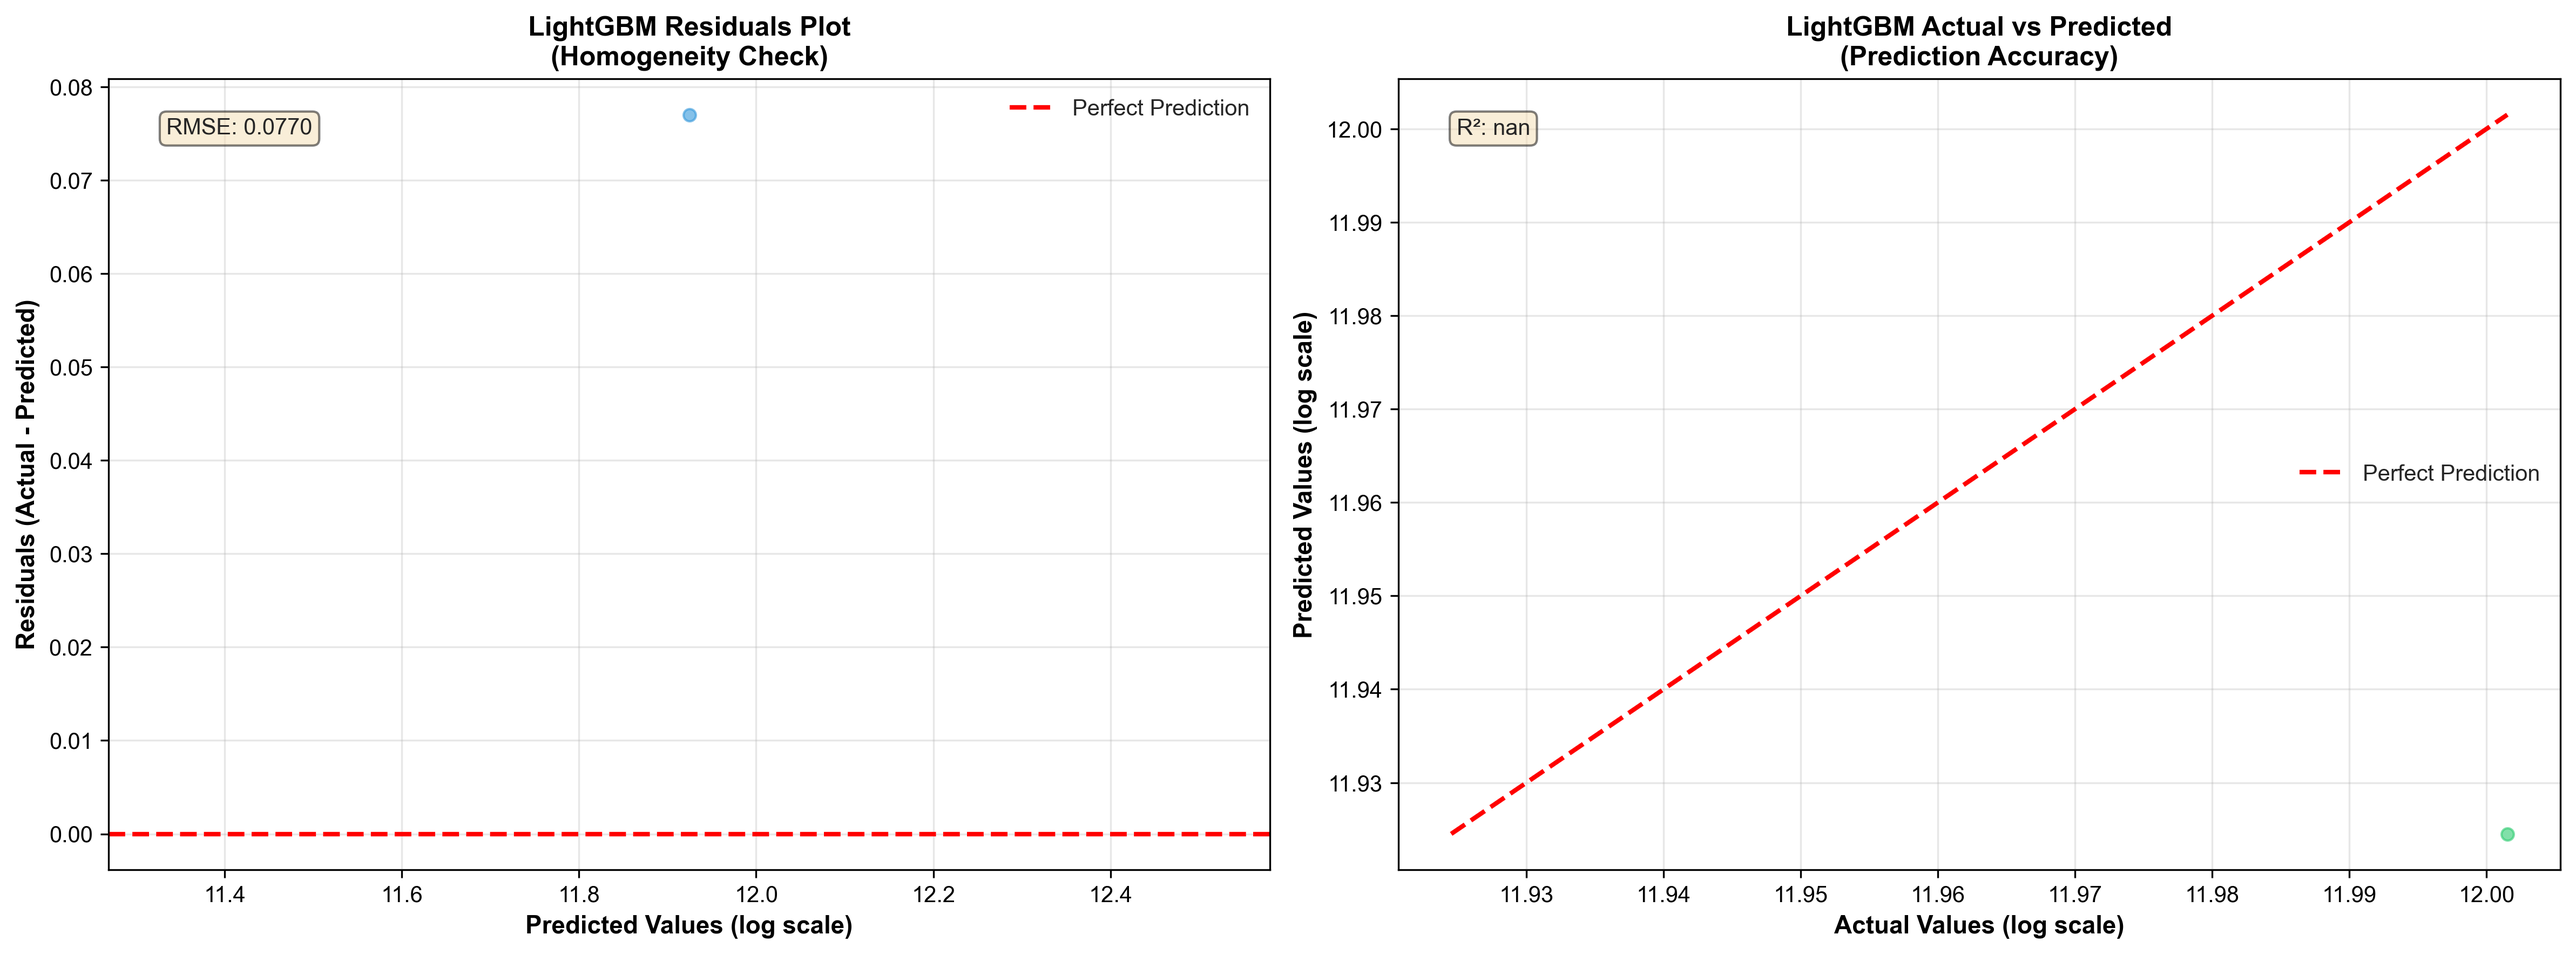
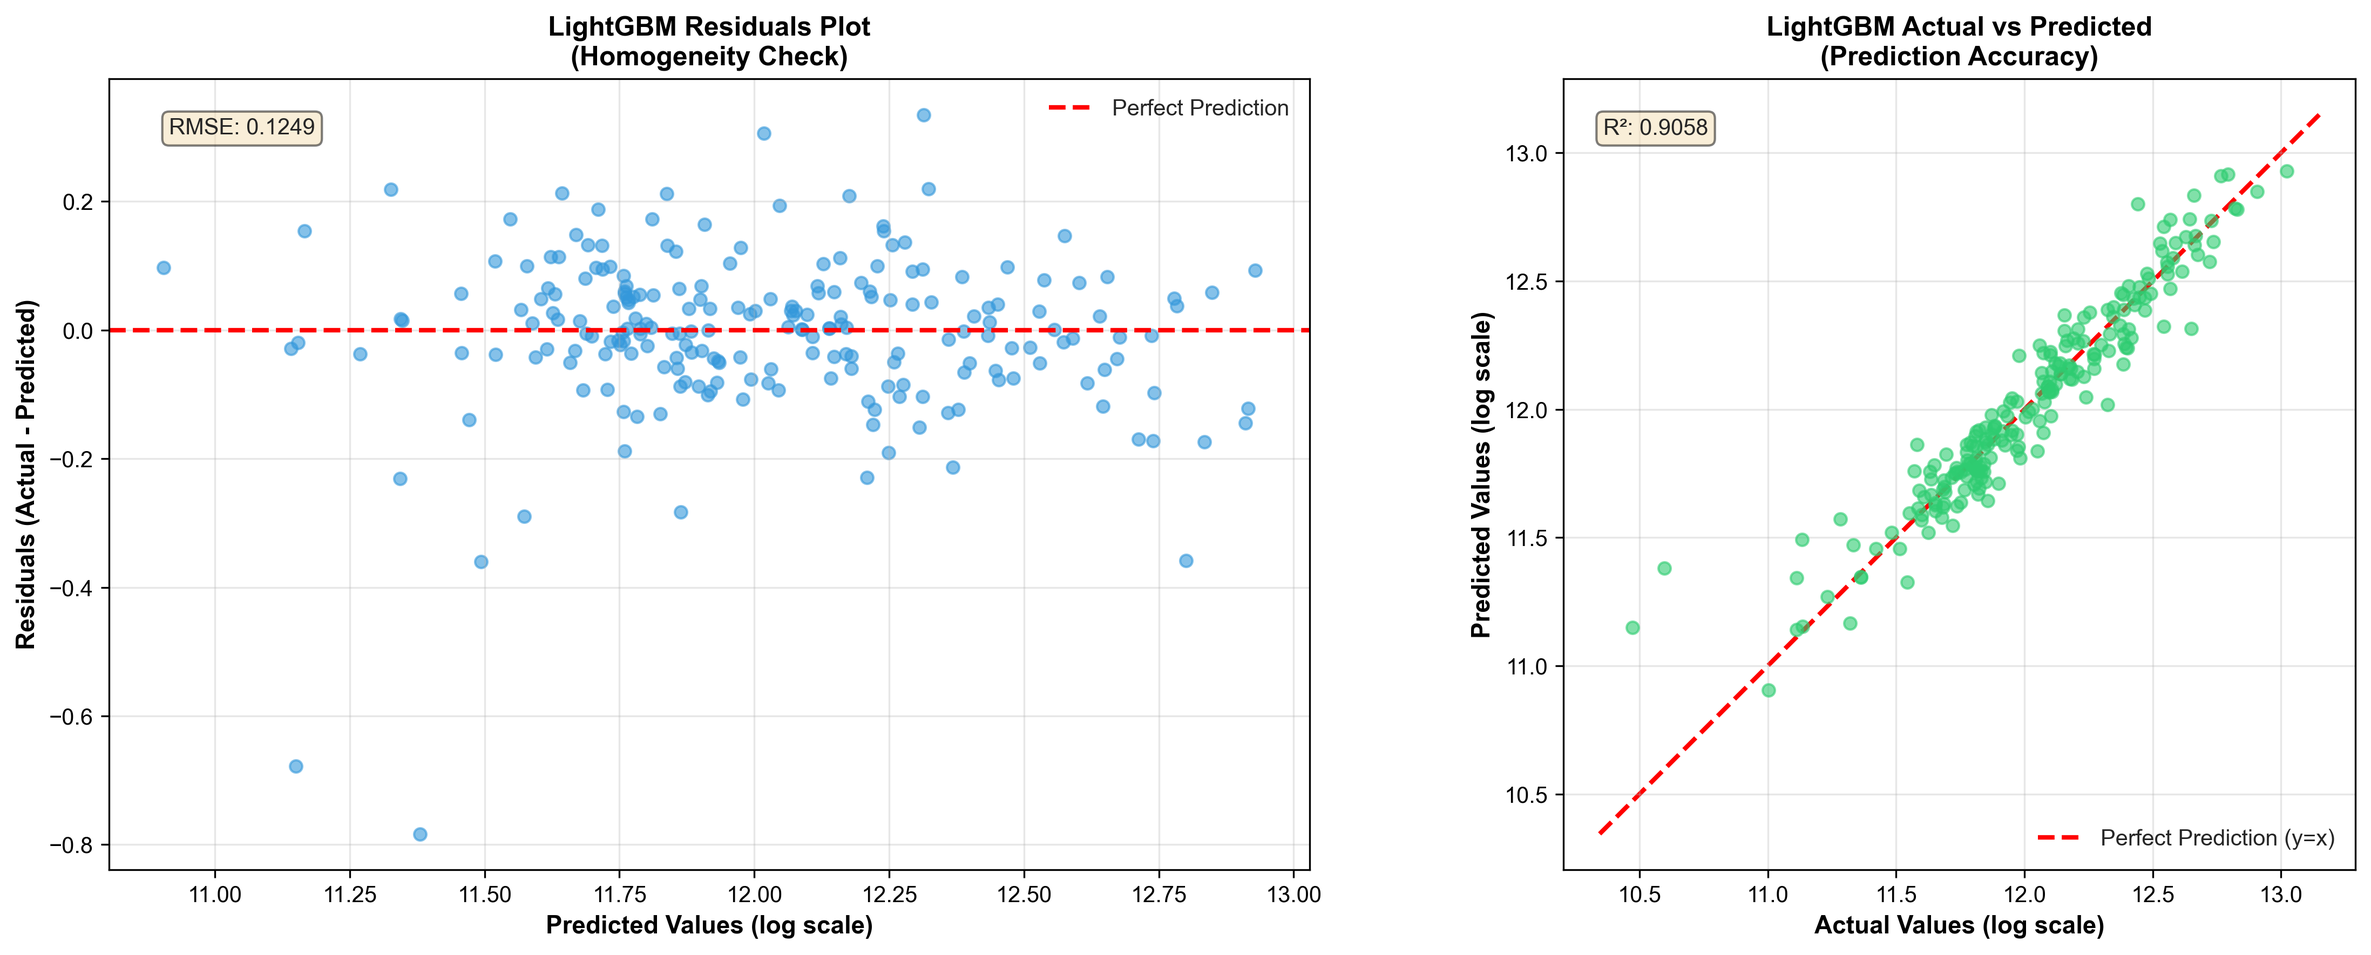
docs: Add Model Selection section to blog and fix residuals plot
- Add comprehensive Model Selection section (VII) to Blog-House_Sale_Prediction.md:
  * Metrics explanation (RMSE, MAE, R², CV)
  * Hyperparameter tuning strategies (Grid Search vs Randomized Search)
  * Comparison of 6 models with detailed analysis
  * Visualization with 4 plots (dashboard, summary, residuals, feature importance)
  * Detailed analysis of LightGBM (best model) and Lasso comparison

- Fix create_additional_plots.py:
  * Set equal aspect ratio for Actual vs Predicted plot to ensure 45-degree diagonal line (y=x)
  * Improve range calculation for perfect prediction line
  * Add better error handling for test data loading

- Update residuals plot visualization with correct diagonal line

diff --git a/Project-5.1/create_additional_plots.py b/Project-5.1/create_additional_plots.py
@@ -61,8 +61,13 @@ def load_model_and_data():
         raise FileNotFoundError(f"Test data not found: {test_path}")
     
     test_df = pd.read_csv(test_path)
-    X_test = test_df[feature_names]
-    y_test = test_df['SalePrice']
+    
+    # Ensure we have the correct features (model might expect specific order)
+    if 'SalePrice' in test_df.columns:
+        X_test = test_df[feature_names]
+        y_test = test_df['SalePrice']
+    else:
+        raise ValueError("SalePrice column not found in test data")
     
     return model, model_name, X_test, y_test, feature_names
 
@@ -110,13 +115,26 @@ def create_residuals_plot(model, X_test, y_test, model_name, save_path):
     
     # 2. Actual vs Predicted Plot
     ax2 = axes[1]
-    ax2.scatter(y_test, y_pred, alpha=0.6, s=30, color='#2ecc71')
+    ax2.scatter(y_test, y_pred, alpha=0.6, s=30, color='#2ecc71', zorder=2)
     
-    # Perfect prediction line
-    min_val = min(y_test.min(), y_pred.min())
-    max_val = max(y_test.max(), y_pred.max())
-    ax2.plot([min_val, max_val], [min_val, max_val], 
-            'r--', linewidth=2, label='Perfect Prediction')
+    # Perfect prediction line: y = x (diagonal line)
+    # Calculate the range that includes both actual and predicted values
+    all_values = np.concatenate([y_test.values if hasattr(y_test, 'values') else y_test, 
+                                  y_pred if isinstance(y_pred, np.ndarray) else np.array(y_pred)])
+    min_val = np.min(all_values)
+    max_val = np.max(all_values)
+    
+    # Add a small margin for better visualization
+    margin = (max_val - min_val) * 0.05
+    line_min = min_val - margin
+    line_max = max_val + margin
+    
+    # Draw the perfect prediction line (y = x) - this should be a 45-degree diagonal
+    ax2.plot([line_min, line_max], [line_min, line_max], 
+            'r--', linewidth=2, label='Perfect Prediction (y=x)', zorder=1)
+    
+    # Set equal aspect ratio and same limits for both axes to ensure 45-degree line
+    ax2.set_aspect('equal', adjustable='box')
     
     ax2.set_xlabel('Actual Values (log scale)', fontsize=11, fontweight='bold')
     ax2.set_ylabel('Predicted Values (log scale)', fontsize=11, fontweight='bold')

diff --git a/Project-5.1/Blog-House_Sale_Prediction.md b/Project-5.1/Blog-House_Sale_Prediction.md
@@ -1149,16 +1149,28 @@ Biểu đồ này hiển thị 6 góc nhìn khác nhau:
 
 ![Model Residuals and Predictions](models/model_residuals.png)
 
-**Giải thích:**
+**Giải thích chi tiết:**
 
 - **Bên trái (Residuals Plot)**:
 
-  - ✅ Points phân bố **ngẫu nhiên** quanh 0 → Model không bias
-  - ✅ Không có pattern rõ ràng → Model không thiếu features
+  - **Trục X**: Predicted Values (giá dự đoán, log scale)
+  - **Trục Y**: Residuals = Actual - Predicted (sai số)
+  - **Đường đỏ nét đứt**: Perfect prediction line (residual = 0)
+  - **Điểm xanh dương**: Mỗi điểm = một căn nhà trong test set
+  - ✅ **Cách đọc**:
+    - Points phân bố **ngẫu nhiên** quanh đường đỏ (y=0) → Model không bias
+    - Không có pattern rõ ràng (funnel, curve) → Model không thiếu features, homoscedasticity tốt
+    - RMSE được hiển thị ở góc trên trái
 
 - **Bên phải (Actual vs Predicted)**:
-  - ✅ Points nằm **gần đường đỏ** (perfect prediction) → Model dự đoán chính xác
-  - ✅ Points phân bố **đều 2 bên** → Model không bias
+  - **Trục X**: Actual Values (giá thực tế, log scale)
+  - **Trục Y**: Predicted Values (giá dự đoán, log scale)
+  - **Đường đỏ nét đứt**: Perfect prediction line (actual = predicted)
+  - **Điểm xanh lá**: Mỗi điểm = một căn nhà trong test set
+  - ✅ **Cách đọc**:
+    - Points nằm **gần đường đỏ** → Model dự đoán chính xác
+    - Points phân bố **đều 2 bên đường đỏ** → Model không bias (không có xu hướng dự đoán cao/thấp)
+    - R² được hiển thị ở góc trên trái (càng gần 1.0 càng tốt)
 
 **Feature Importance Plot:**
 
